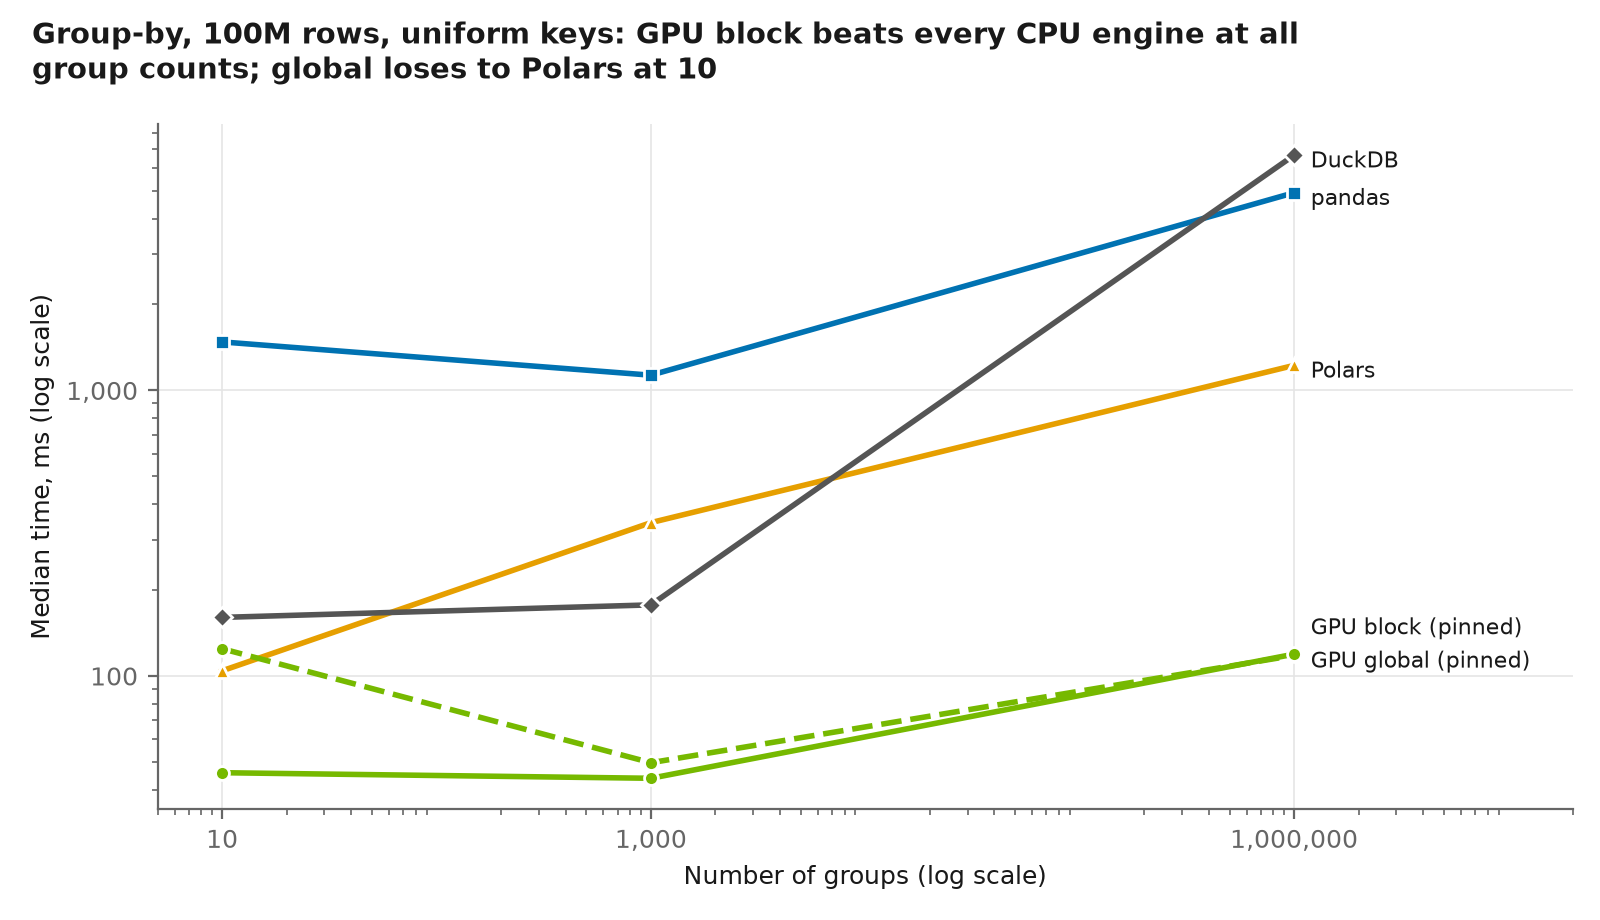
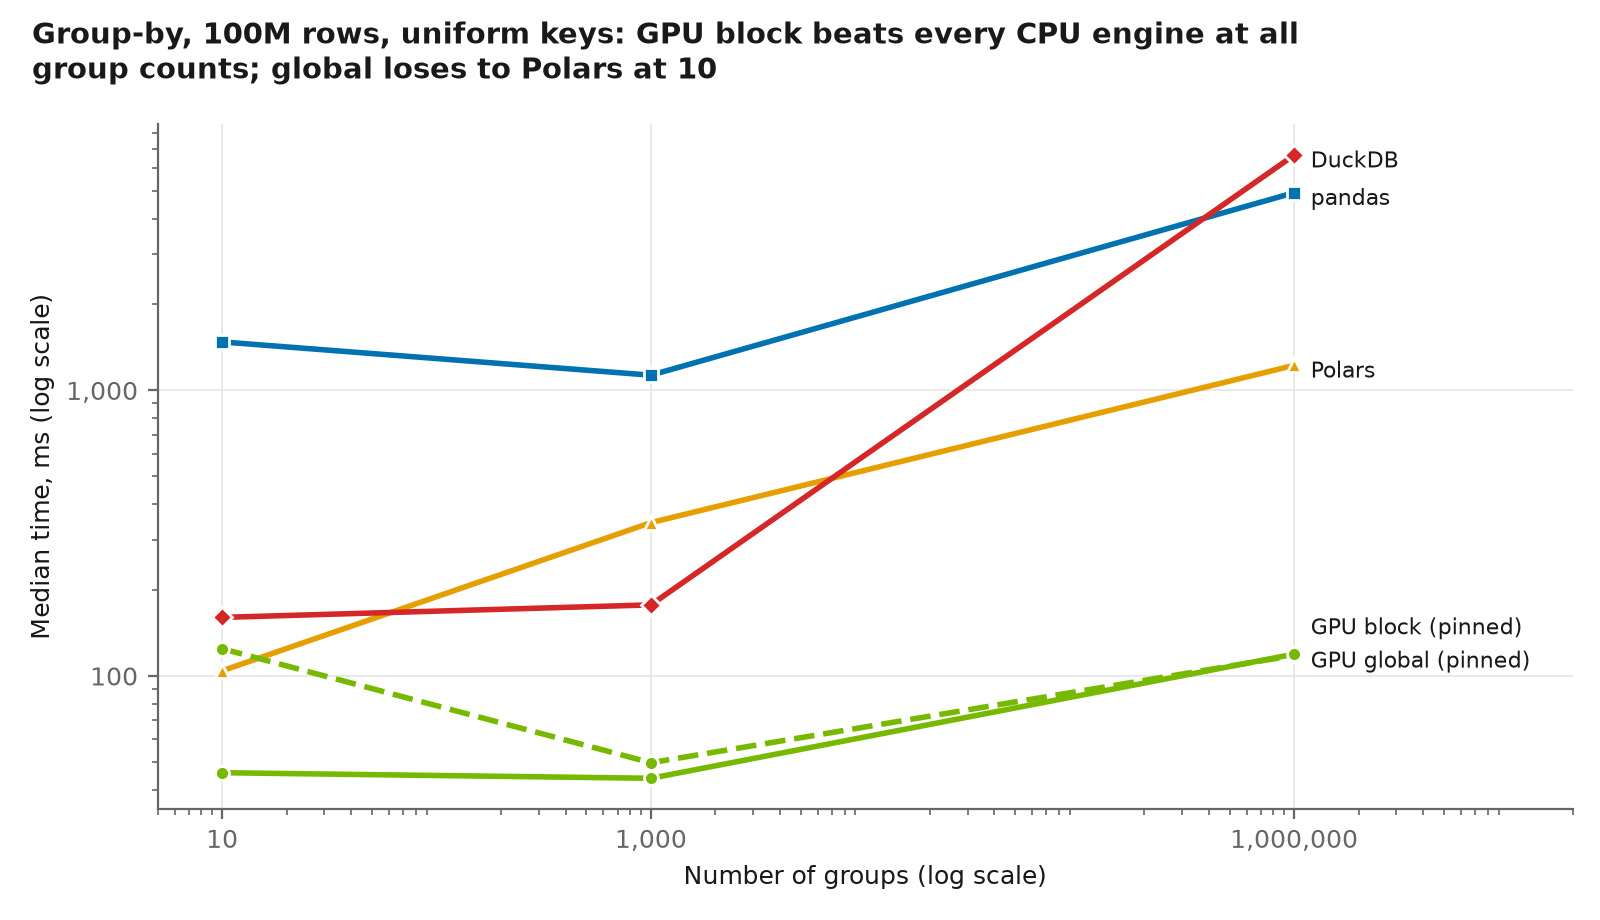
Charts: DuckDB in red (#D62728)

diff --git a/benchmarks/plot.py b/benchmarks/plot.py
@@ -15,11 +15,11 @@ RESULTS = Path(__file__).parent / "results"
 FIGS = Path(__file__).parent.parent / "docs" / "figures"
 
 # One color per engine in every chart: pandas blue and Polars orange (colorblind-safe pair),
-# DuckDB dark grey, GPU in NVIDIA green. Each engine also gets its own marker shape.
+# DuckDB red, GPU in NVIDIA green. Each engine also gets its own marker shape.
 # All GPU lines share one color; dashed = GPU pageable or GPU global.
-COLOR = {"pandas": "#0072B2", "polars": "#E69F00", "duckdb": "#555555", "gpu": "#76b900"}
+COLOR = {"pandas": "#0072B2", "polars": "#E69F00", "duckdb": "#D62728", "gpu": "#76b900"}
 MARKER = {"pandas": "s", "polars": "^", "duckdb": "D", "gpu": "o"}
-COPY_GRAY = "#d4d4d4"  # not an engine: the copy part of a GPU bar, much lighter than DuckDB grey
+COPY_GRAY = "#d4d4d4"  # not an engine: the copy part of a GPU bar, light grey, so it does not look like an engine
 TEXT, TEXT2, GRID = "#191919", "#666666", "#e5e5e5"
 LABEL = {"pandas": "pandas", "polars": "Polars", "duckdb": "DuckDB"}
 LABEL_GAP_PT = 12  # smallest vertical distance between two end labels
